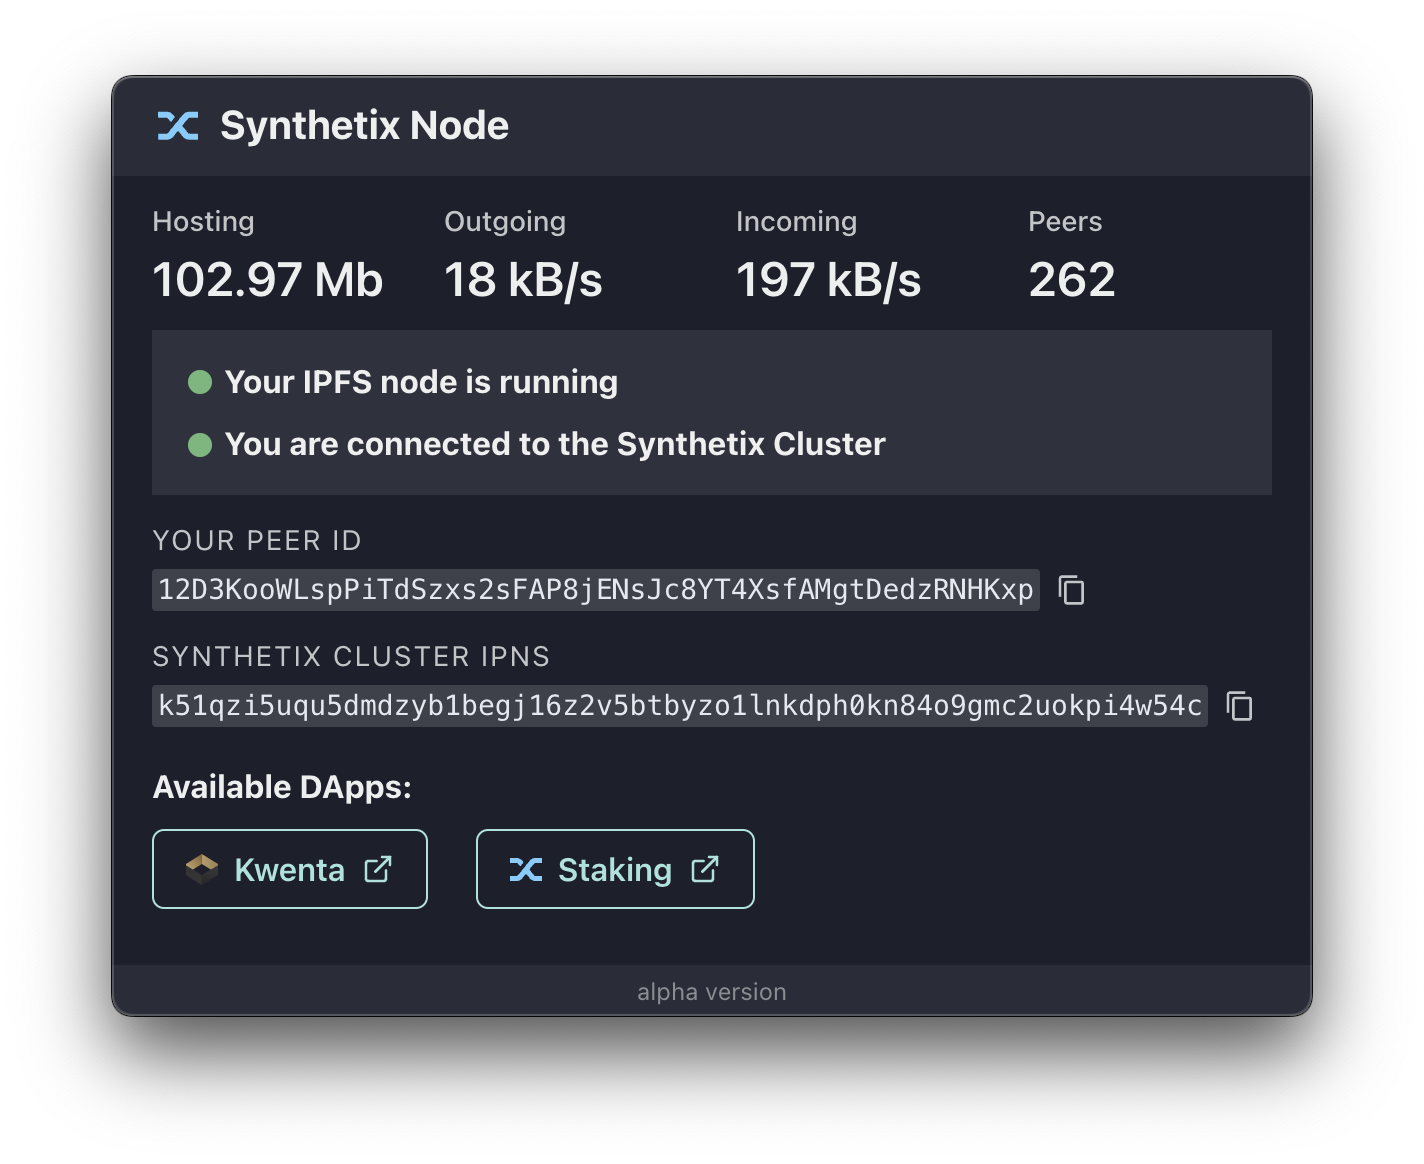
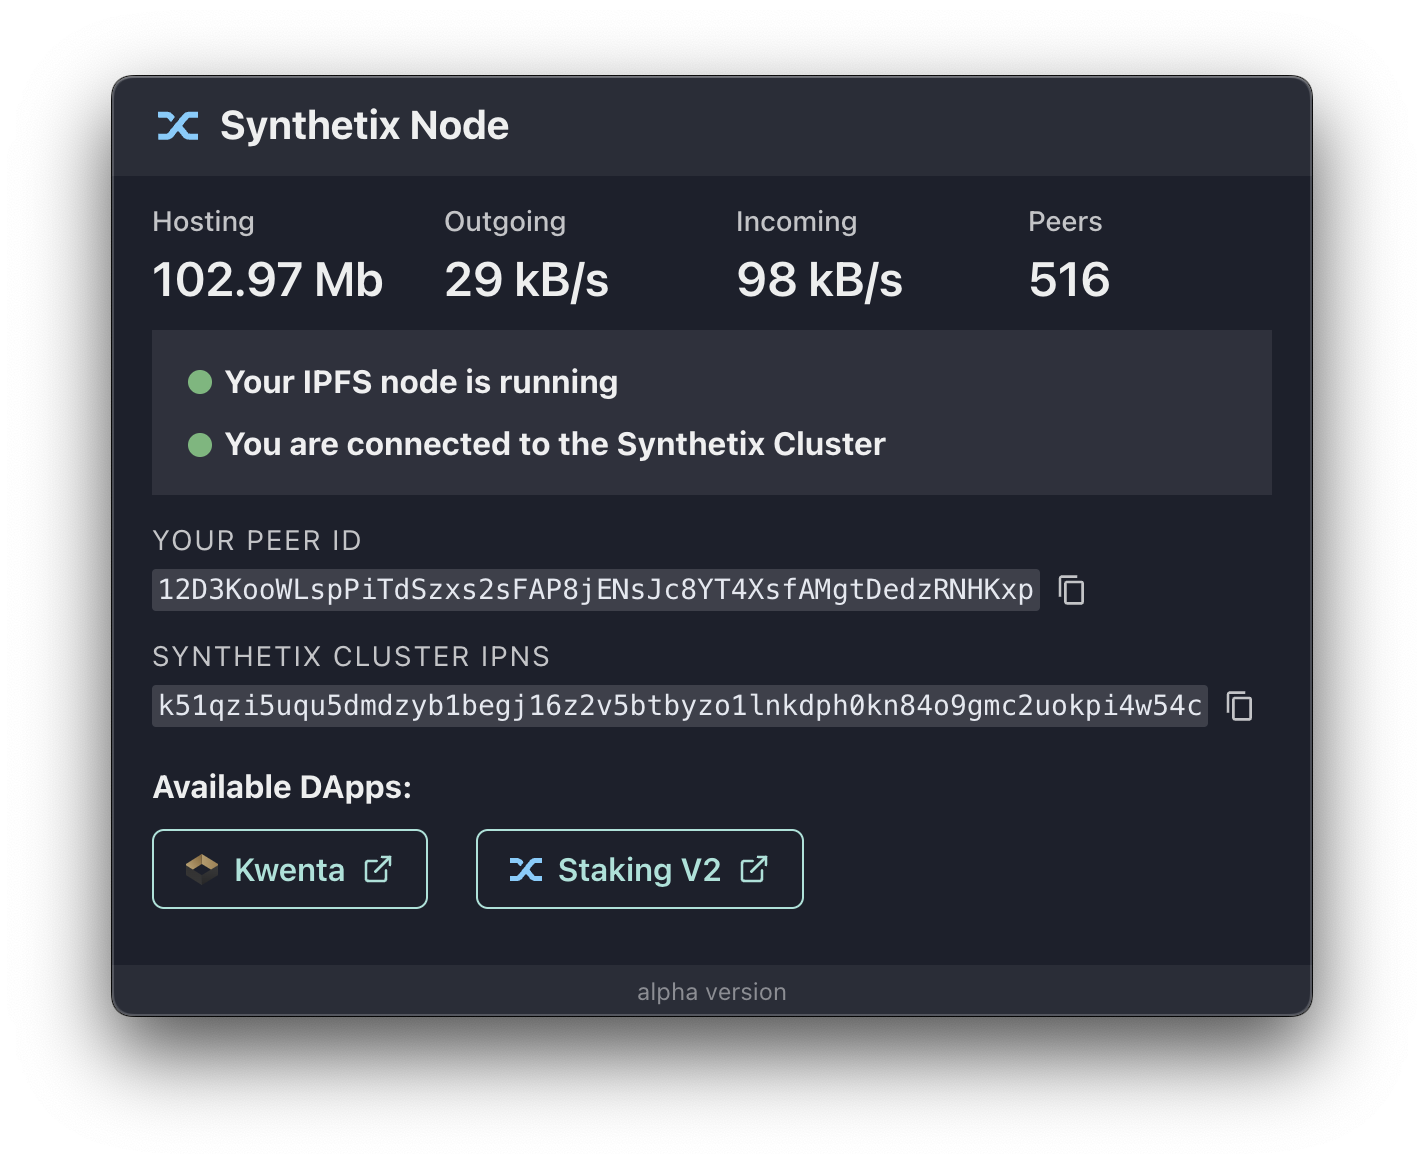
"Staking V2"

diff --git a/src/renderer/DApps/Dapps.tsx b/src/renderer/DApps/Dapps.tsx
@@ -51,7 +51,7 @@ export function Dapps() {
           <DappButton ens="kwenta.eth" label="Kwenta" icon={kwentaIcon} />
           <DappButton
             ens="staking.synthetix.eth"
-            label="Staking"
+            label="Staking V2"
             icon={stakingIcon}
           />
         </Stack>
